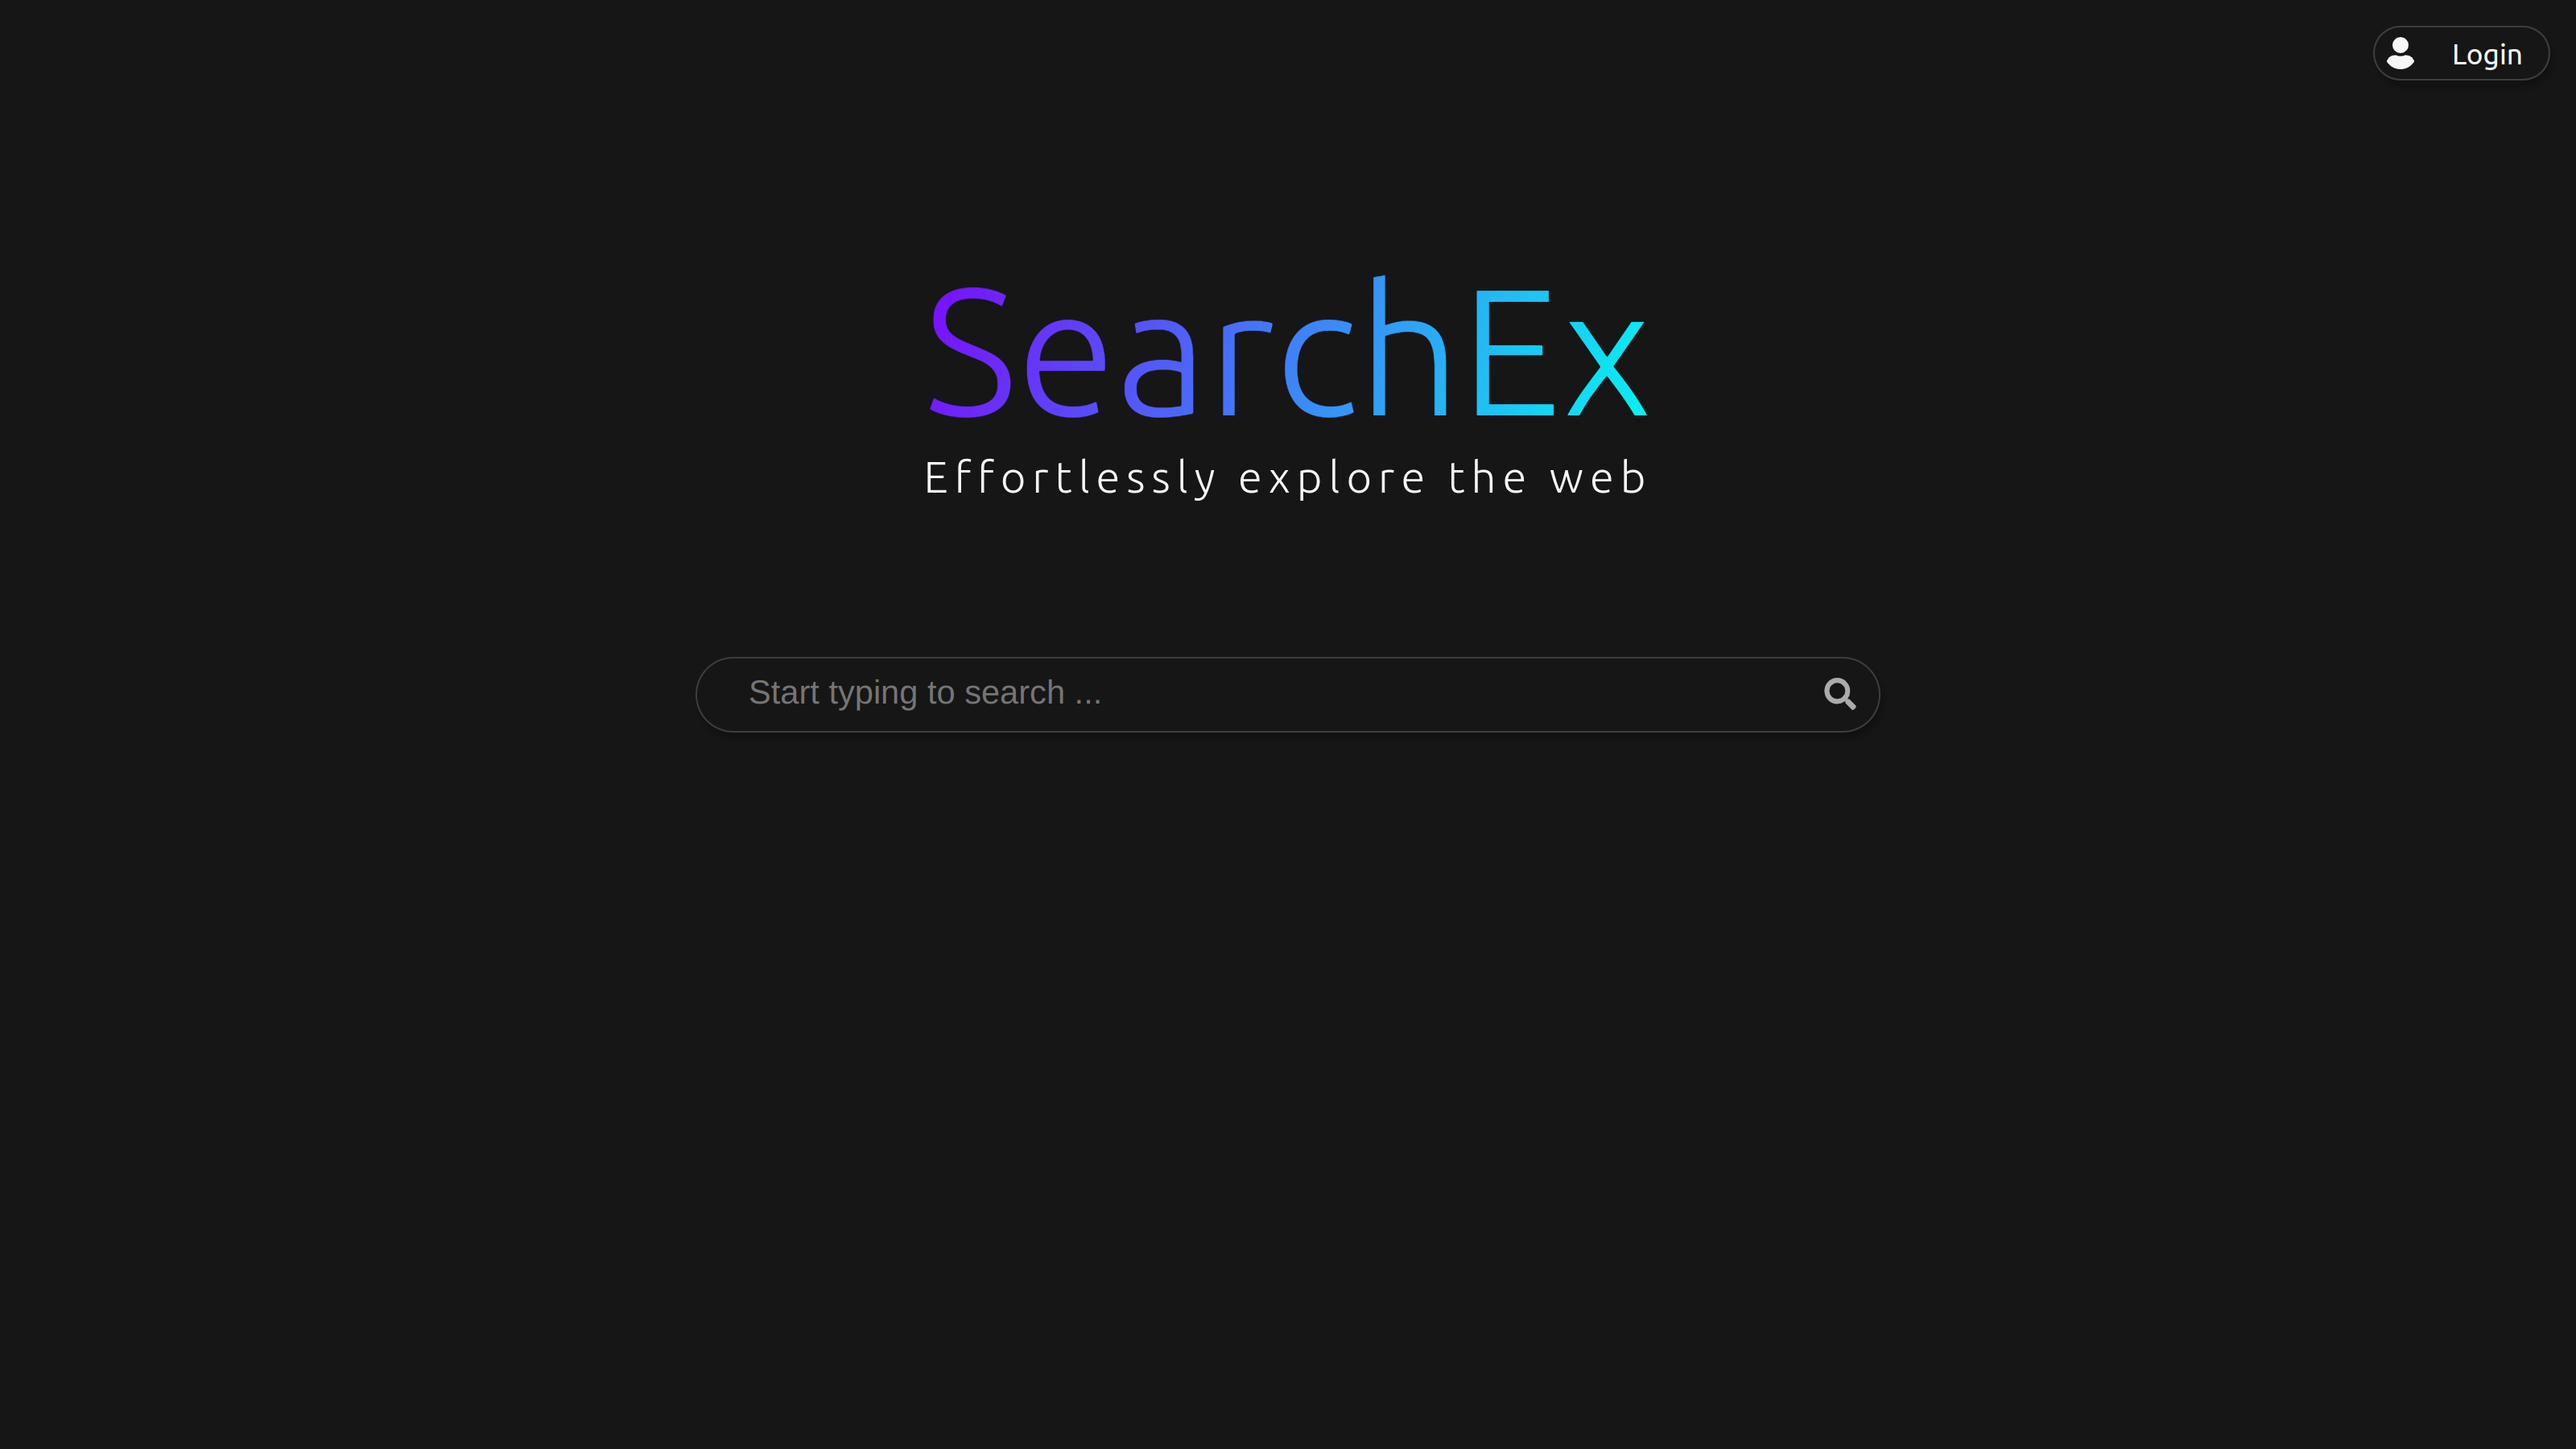
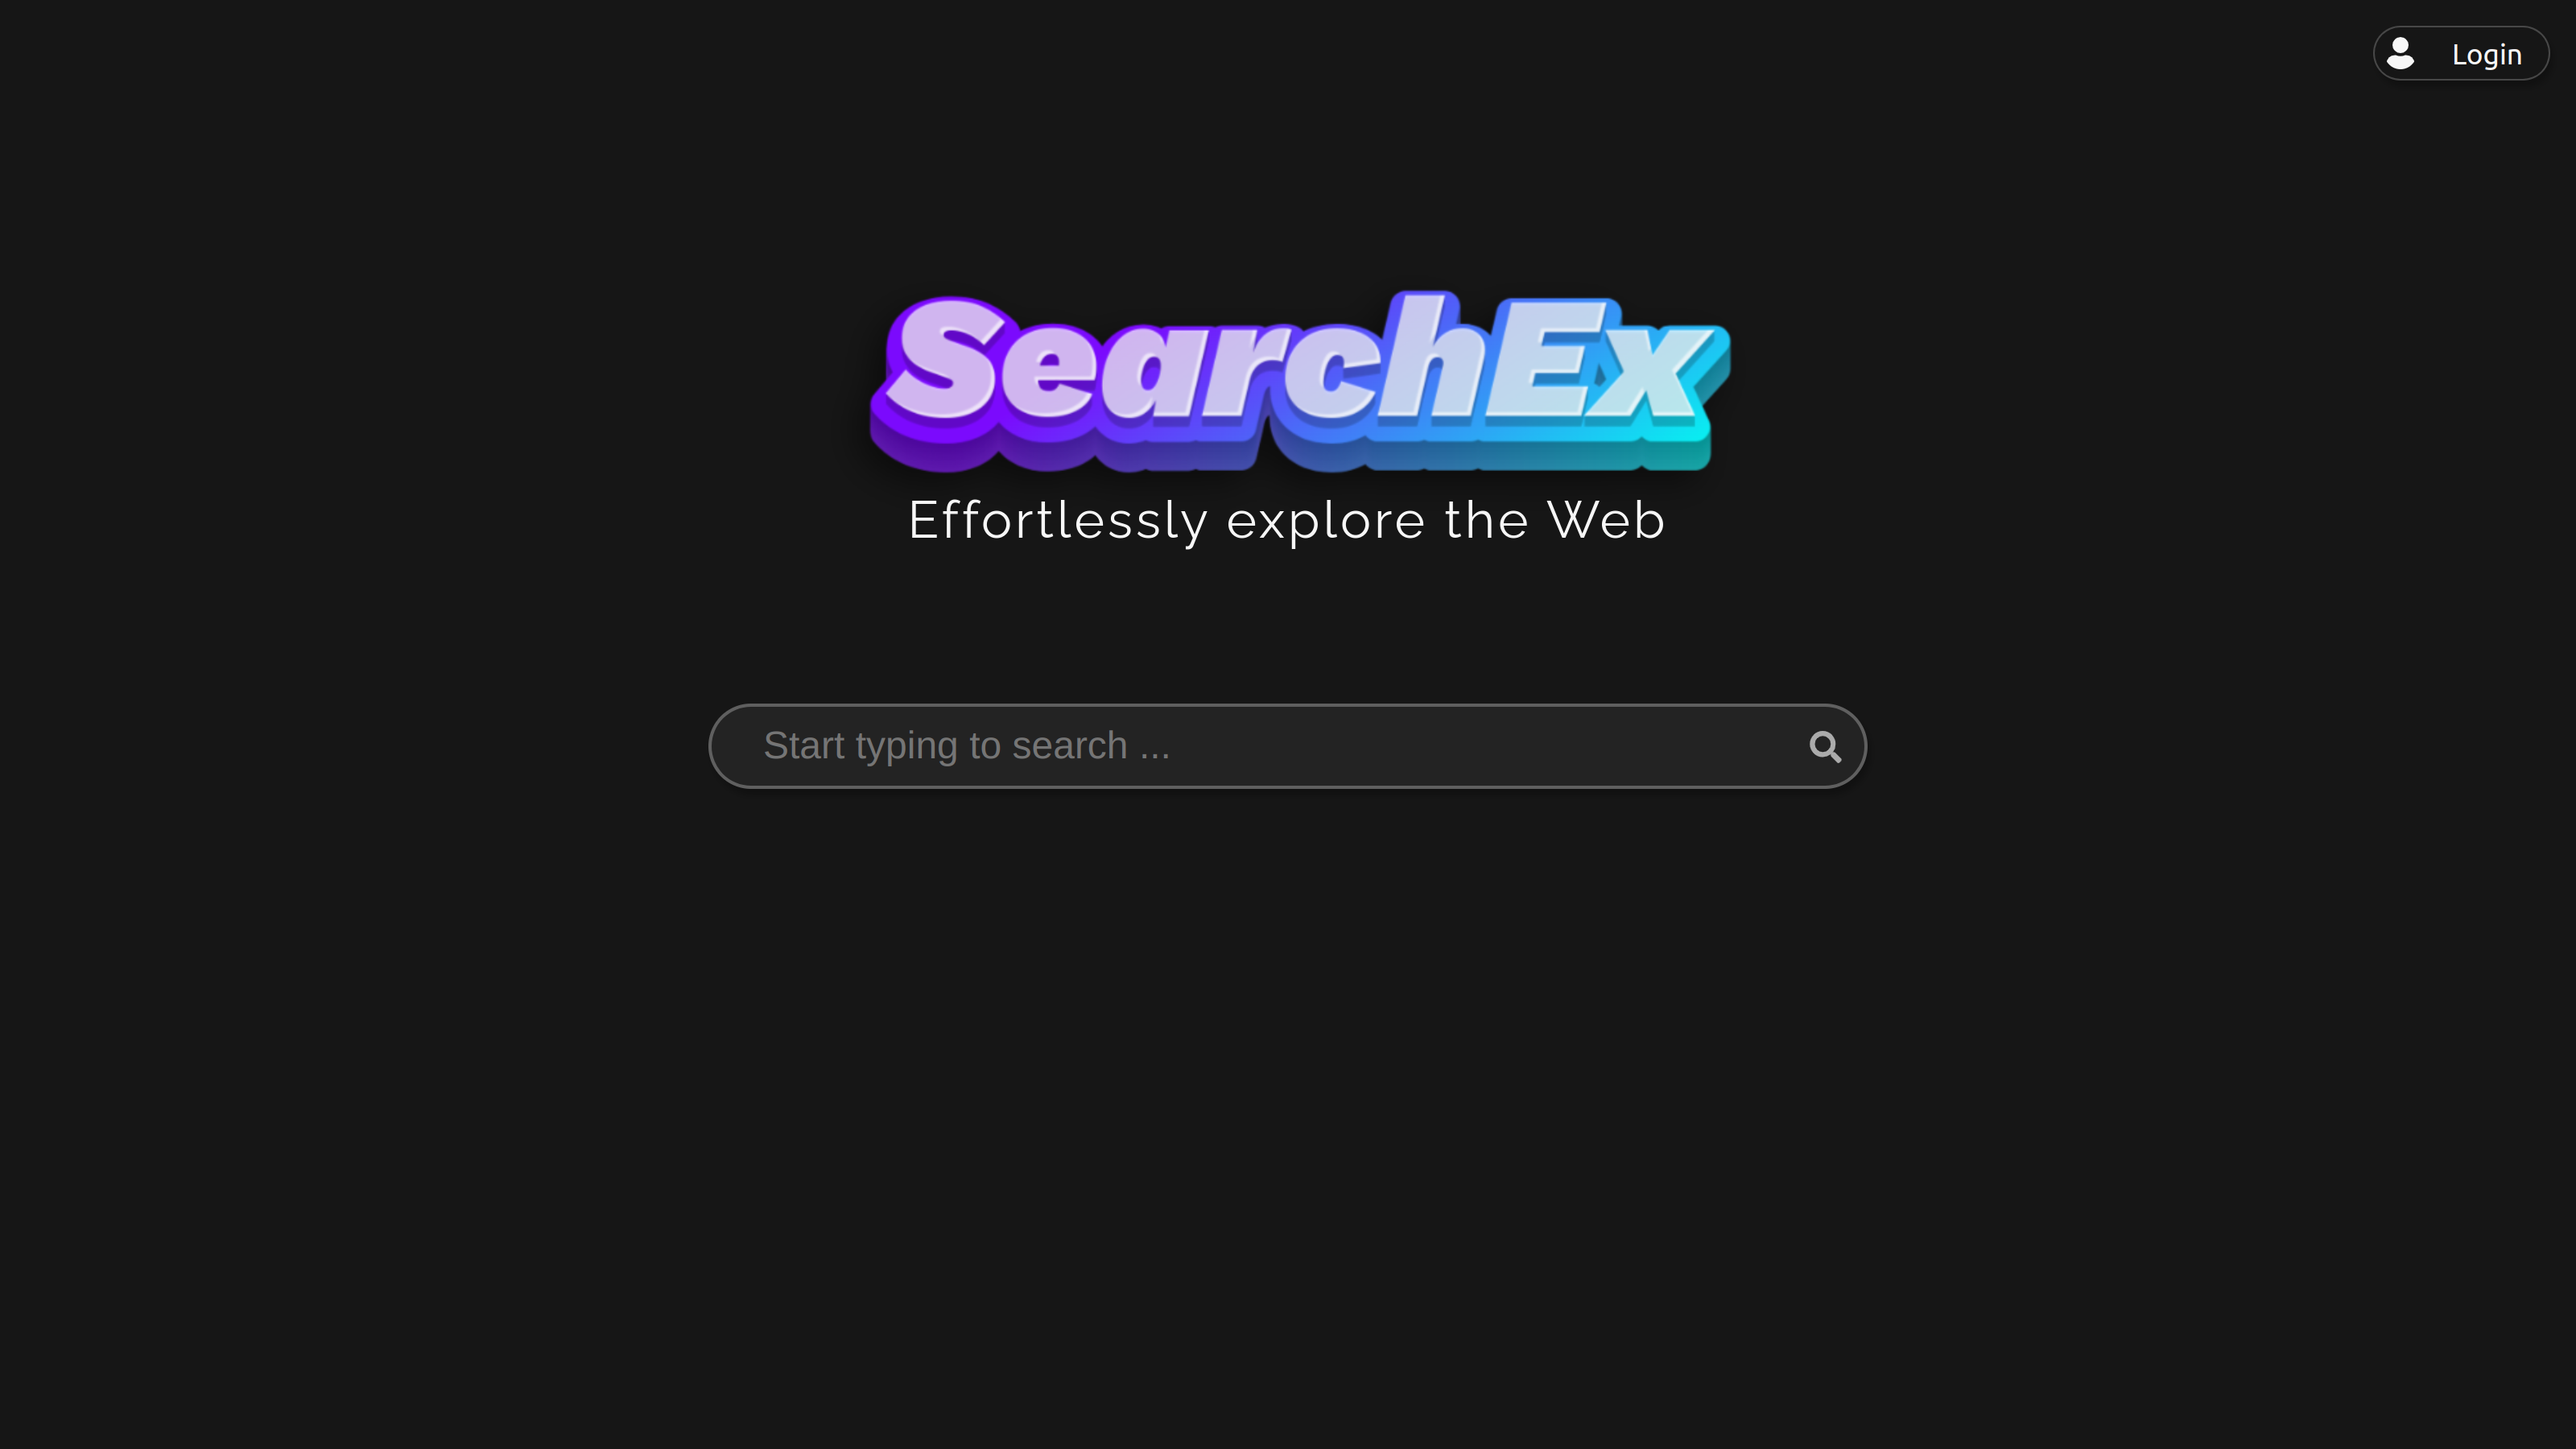
Update Readme

Changed region(s): [[0.3125, 0.1867, 0.6875, 0.3733], [0.2812, 0.4667, 0.4375, 0.5289], [0.6875, 0.4667, 0.7188, 0.5289]]

diff --git a/components/shared/Footer/index.js b/components/shared/Footer/index.js
@@ -2,27 +2,24 @@
 
 import styles from "./footer.module.scss";
 import ThemeBtn from "../ThemeBtn";
-
-// import location icon from react-icons
 import { BsGeoAlt } from "react-icons/bs";
 import { useEffect, useState } from "react";
 
-const currentLocation = async () =>{
-    const response = await fetch("https://ipinfo.io/json?token=57cb832fc1de92");
-    const data = await response.json();
-    const location = `${data.city}, ${data.region}, ${data.country}`;
-    return location;
+const currentLocation = async () => {
+    try {
+        const response = await fetch("https://ipinfo.io/json?token=57cb832fc1de92");
+        const data = await response.json();
+        const location = `${data.city}, ${data.region}, ${data.country}`;
+        return location;
+    } catch (err) {
+        return false;
+    }
 }
 
 export default function Footer() {
 
     const [location, setLocation] = useState("");
-
-    useEffect(() => {
-        currentLocation().then((location) => {
-            setLocation(location);
-        });
-    }, []);
+    useEffect(() => { currentLocation().then(location => { setLocation(location) }) }, []);
 
     return (
         <footer className={styles.footer}>
@@ -31,11 +28,6 @@ export default function Footer() {
                 <p> <span className={styles.logo}>SearchEx</span> is a Free and Open Source project. <br /> You can view its source code on <a href="https://github.com/devxprite/searchex" target="_blank">Github</a> </p>
                 <ThemeBtn />
             </div>
-            {/* <div className={styles.footer__links}>
-                <Link href="/">Home</Link>
-                <Link href="/about">About</Link>
-                <Link href="/View Source">View Source</Link>
-            </div> */}
         </footer>
     );
 }

diff --git a/README.md b/README.md
@@ -1,5 +1,9 @@
-This is a [Next.js](https://nextjs.org/) project bootstrapped with [`create-next-app`](https://github.com/vercel/next.js/tree/canary/packages/create-next-app).
-SearchEx is a search engine clone built with Next.js 13 (beta dir). It utilizes Google Custom Search API and other APIs to provide users with search results. Users can log in and log out using Next-Auth for authentication.
+
+<div align="center">
+    <img src="./public/logo.png" alt="SearchEx Logo" width="250" align="center">
+    <p>SearchEx is a working search engine clone built using Next.js 13</p>
+</div>
+
 
 ## Features
 * Clean UI
@@ -8,7 +12,7 @@ SearchEx is a search engine clone built with Next.js 13 (beta dir). It utilizes 
 * Sign up, log in, and log out
 * Support for multiple authentication providers (e.g. Google, GitHub)
 * Pagination system at the bottom of the search page
-* Open AI for Card
+* Open AI integration for generating text.
 * Light & dark Theme
 
 ## Getting Started
@@ -68,10 +72,3 @@ The `pages/api` directory is mapped to `/api/*`. Files in this directory are tre
 
 ## License
 This project is licensed under the MIT License.
-
-## Learn More
-
-To learn more about Next.js, take a look at the following resources:
-
-- [Next.js Documentation](https://nextjs.org/docs) - learn about Next.js features and API.
-- [Learn Next.js](https://nextjs.org/learn) - an interactive Next.js tutorial.
